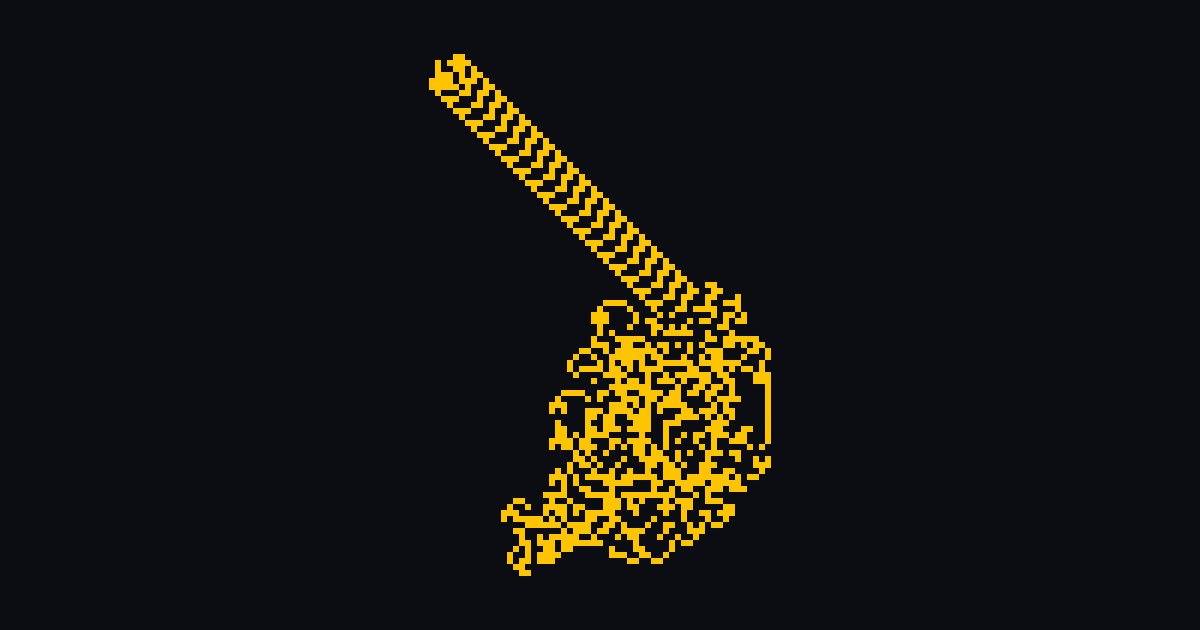
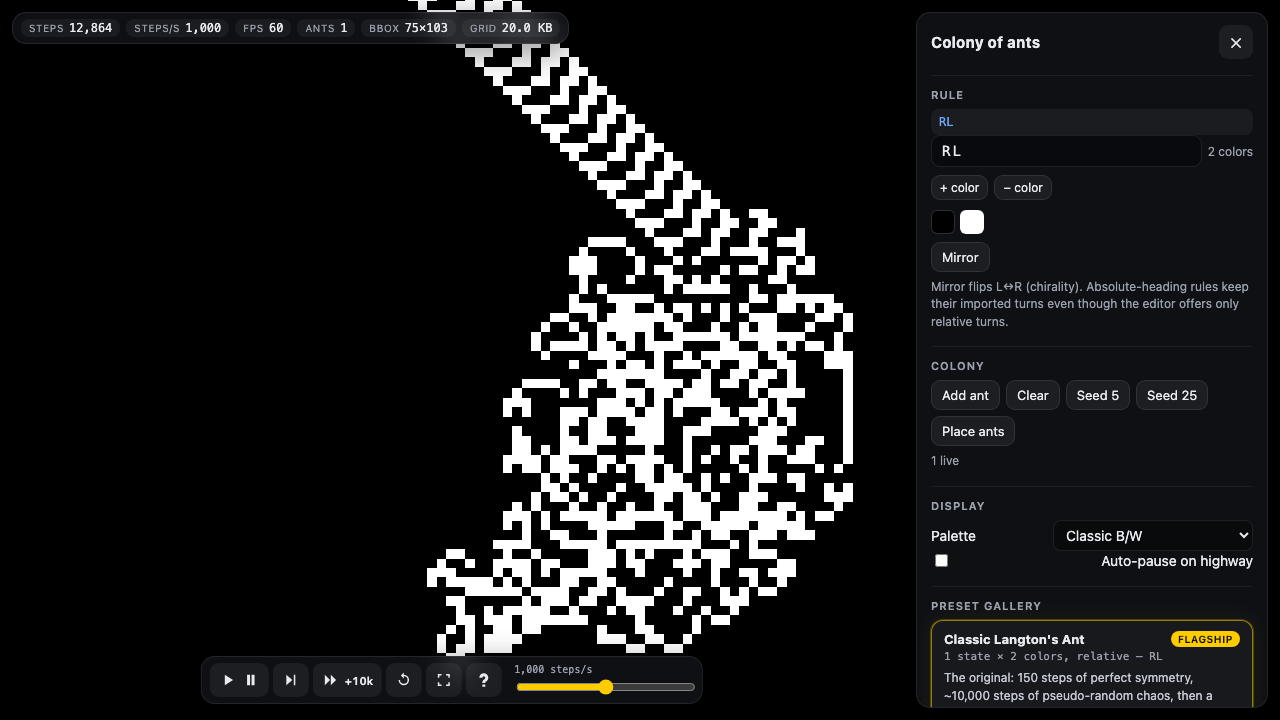
Add demo GIF and refreshed social card

diff --git a/README.md b/README.md
@@ -11,6 +11,10 @@
 
 </div>
 
+<p align="center">
+  <img src="public/demo.gif" alt="Langton's ant running: chaos collapses into a periodic highway" width="800" />
+</p>
+
 ## What is this?
 
 In 1986 Christopher Langton asked what a single "ant" following four trivial rules could build. The classic ant paints ~10,000 steps of pseudo-random noise, then abruptly locks into a clean 104-step periodic highway it extends forever — and whether this *always* happens is still an open conjecture. Generalized ants ("turmites") turn out to be programmable matter: Langton's ant is provably universal (2002) [2], and all nontrivial 2D Turing machines of this kind are Turing-universal [3]. Between 2024 and 2025 whole families of multi-color ants finally had their highways proven [6][7][8] — turning the Highway Conjecture from folklore into real mathematics [14].
